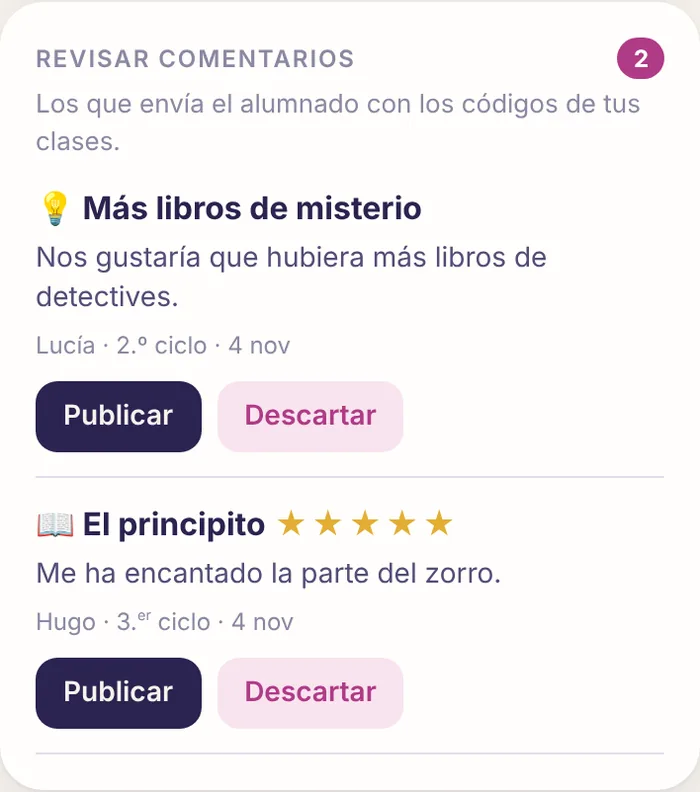
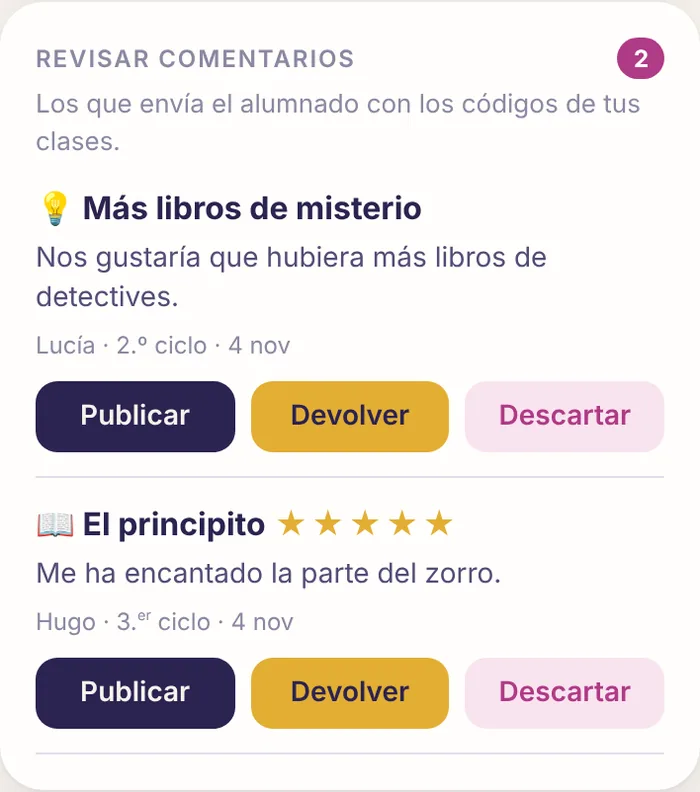
Devolver mensajes al alumno para que los corrija (vinculado al dispositivo)
Claude-Session: https://claude.ai/code/session_01LUWp7JZmstWodScyruJUGT

Changed region(s): [[0.09, 0.8182, 0.96, 0.9394], [0.09, 0.4545, 0.96, 0.5758]]

diff --git a/index.html b/index.html
@@ -247,6 +247,14 @@ sup{font-size:.6em;line-height:0;vertical-align:.6em;margin-left:.02em}
 .conf-botones{display:grid;grid-template-columns:1fr 1fr;gap:10px;margin-top:20px}
 .conf-botones .btn{margin:0;padding:15px 10px}
 .btn.rojo{background:var(--teja);color:#fff}
+.revisar.devuelto{background:var(--oro);color:var(--tinta)}
+.nota-maestro{background:#FBF3DC;border:1px solid #F0DDA4;border-radius:14px;padding:12px 14px;margin:10px 0 4px}
+.nota-maestro span{display:block;font-size:13px;color:var(--tinta2)}
+.nota-maestro b{display:block;margin-top:2px;font-size:16px}
+.corregido{margin-top:8px;font-size:13px;background:#E8F1FB;color:#24508A;border-radius:10px;padding:6px 10px}
+.tres-botones{display:grid;grid-template-columns:repeat(3,1fr);gap:8px;margin-top:10px}
+.btn-peq.oro{background:var(--oro);color:var(--tinta)}
+.pill.devuelto-p{background:#FBF3DC;color:#9A6B00}
 .cargando{text-align:center;color:var(--suave);padding:60px 0}
 </style>
 </head>
@@ -273,7 +281,7 @@ sup{font-size:.6em;line-height:0;vertical-align:.6em;margin-left:.02em}
 /* ============ CONFIGURACIÓN ============ */
 const API = 'https://script.google.com/macros/s/AKfycbz81OyJGv_nYIVvf2obFFmcTHuE472UoAX05WH8zrBownnmmddSbHULyt2vV2fO0F4u/exec';
 const NOMBRE_CENTRO = 'CEIP Fernando IV';
-const VERSION_APP = '1.27';
+const VERSION_APP = '1.28';
 
 const MESES = ['enero','febrero','marzo','abril','mayo','junio','julio','agosto','septiembre','octubre','noviembre','diciembre'];
 const DIAS = ['domingo','lunes','martes','miércoles','jueves','viernes','sábado'];
@@ -293,7 +301,8 @@ const S = {
   sesion: leer('bib_sesion'),
   demo: !!leer('bib_demo'),
   ejemplo: !!leer('bib_ejemplo'),
-  demoMsgs: leer('bib_demoMsgs') || [],   // maestro: {token, maestro:{id,nombre,rol}}
+  demoMsgs: leer('bib_demoMsgs') || [],
+  devueltos: [],   // maestro: {token, maestro:{id,nombre,rol}}
   alumno: leer('bib_alumno')    // alumno: {codigoClase, alias}
 };
 
@@ -457,9 +466,22 @@ async function cargarCalendario(){
 async function cargarPublicas(){ S.publicas = await api('publicas'); guardarCache(); }
 async function cargarPendientes(){ if (esMaestro()) S.pendientes = await api('pendientes', { token: S.sesion.token }, true).catch(() => null); }
 
+/** Identificador anónimo de este dispositivo: sirve para devolver al alumno sus propios mensajes. */
+function idDispositivo(){
+  let id = leer('bib_dispositivo');
+  if (!id) { id = (crypto.randomUUID ? crypto.randomUUID() : Date.now().toString(36) + Math.random().toString(36).slice(2)); guardar('bib_dispositivo', id); }
+  return id;
+}
+async function cargarDevueltos(){
+  if (S.demo) { S.devueltos = S.demoMsgs.filter(x => x.estado === 'devuelta'); return; }
+  if (esMaestro() || !S.alumno) { S.devueltos = []; return; }
+  try { S.devueltos = (await api('misDevueltos', { dispositivo: idDispositivo(), alias: S.alumno.alias })).devueltos || []; }
+  catch(e){ S.devueltos = S.devueltos || []; }
+}
+
 async function refrescar(){
   try {
-    await Promise.all([cargarEstado(), cargarPublicas(), cargarPendientes(), cargarCalendario()]);
+    await Promise.all([cargarEstado(), cargarPublicas(), cargarPendientes(), cargarCalendario(), cargarDevueltos()]);
     if (S.mesVista && S.mesVista !== S.estado.mes) await cargarEstado(S.mesVista);
     guardarCache();
     pintar();
@@ -695,7 +717,12 @@ function vInicioAlumno(){
   const mesNombre = MESES[+S.estado.ahora.fecha.slice(5, 7) - 1];
   const res = pub().resenas.length, sug = pub().sugerencias.length;
 
-  return cabecera() + `
+  const nDev = (S.devueltos || []).length;
+  const avisoDev = nDev ? `<button class="card revisar devuelto" onclick="verDevueltos()">
+      <span class="icono" style="background:rgba(255,255,255,.25)">✏</span>
+      <span style="flex:1;text-align:left"><b>${nDev === 1 ? 'Te han devuelto 1 mensaje' : `Te han devuelto ${nDev} mensajes`}</b>
+      <span style="display:block;font-size:13px;opacity:.9">${nDev === 1 ? 'Corrígelo y vuelve a enviarlo' : 'Corrígelos y vuelve a enviarlos'}</span></span><span class="ir" style="color:var(--tinta)">›</span></button>` : '';
+  return cabecera() + avisoDev + `
   <div class="card hero hero-alumno">
     <div class="etq">Biblioteca del cole</div>
     <div class="estado">${nombre ? '¡Hola, ' + esc(nombre) + '!' : '¡Hola!'}</div>
@@ -912,7 +939,12 @@ function nuevoMensaje(){
     return;
   }
   const res = S.buzonTab === 'resenas';
-  abrirHoja(`<h2>${res ? 'Nueva reseña' : 'Nueva sugerencia'}</h2>
+  formMensaje(res, null);
+}
+/** Formulario para escribir o, si viene «dev», para corregir un mensaje devuelto. */
+function formMensaje(res, dev){
+  abrirHoja(`<h2>${dev ? (res ? 'Corrige tu reseña' : 'Corrige tu sugerencia') : res ? 'Nueva reseña' : 'Nueva sugerencia'}</h2>
+    ${dev ? `<div class="nota-maestro"><span>✏ ${esc(dev.moderadaPor || 'Tu maestro/a')} te dice:</span><b>${esc(dev.nota)}</b></div>` : ''}
     ${res ? `<label>Título del libro</label><input id="fLibro" maxlength="100">
       <label>Autor o autora</label><input id="fAutor" maxlength="80" placeholder="Si no lo sabes, déjalo en blanco">
       <label>¿Cuánto te ha gustado?</label><div class="selector-estrellas" id="fEst">${[1,2,3,4,5].map(n => `<button data-n="${n}" onclick="ponerEstrellas(${n})">★</button>`).join('')}</div>
@@ -920,13 +952,26 @@ function nuevoMensaje(){
     : `<label>Título</label><input id="fTitulo" maxlength="80" placeholder="Por ejemplo: más libros de dinosaurios">
       <label>Tu sugerencia</label><textarea id="fTexto" maxlength="1000"></textarea>`}
     ${!esMaestro() ? '<p class="ayuda">Un maestro o maestra lo revisará antes de publicarlo.</p>' : ''}
-    <button class="btn" id="fEnviar" onclick="enviarMensaje(${res})">Enviar</button>`);
+    <button class="btn" id="fEnviar" onclick="enviarMensaje(${res}${dev ? `,'${dev.id}'` : ''})">${dev ? 'Volver a enviar' : 'Enviar'}</button>`);
   ponerEstrellas.n = 0;
+  if (dev) {
+    if (res) { $('#fLibro').value = dev.libro || ''; $('#fAutor').value = dev.autorLibro && dev.autorLibro !== '-' ? dev.autorLibro : ''; ponerEstrellas(+dev.valoracion || 0); }
+    else $('#fTitulo').value = dev.titulo || '';
+    $('#fTexto').value = dev.texto || '';
+  }
+}
+function corregir(i){ const d = S.devueltos[i]; if (d) formMensaje(d._t === 'resena', d); }
+function verDevueltos(){
+  if (S.devueltos.length === 1) return corregir(0);
+  abrirHoja(`<h2>Mensajes para corregir</h2><p class="ayuda">Tu maestro o maestra te ha devuelto estos mensajes. Corrígelos y vuelve a enviarlos.</p>
+    ${S.devueltos.map((d, i) => `<button class="card item" style="margin-top:12px" onclick="corregir(${i})"><h3>${esc(d._t === 'resena' ? '📖 ' + d.libro : '💡 ' + d.titulo)}</h3>
+      <p>✏ ${esc(d.nota)}</p></button>`).join('')}`);
 }
 function ponerEstrellas(n){ ponerEstrellas.n = n; document.querySelectorAll('#fEst button').forEach(b => b.classList.toggle('on', +b.dataset.n <= n)); }
 
-async function enviarMensaje(res){
-  const quien = esMaestro() ? { token: S.sesion.token } : { codigoClase: alumno().codigoClase, alias: alumno().alias };
+async function enviarMensaje(res, reenviarId){
+  const quien = esMaestro() ? { token: S.sesion.token } : { codigoClase: alumno().codigoClase, alias: alumno().alias, dispositivo: idDispositivo() };
+  if (reenviarId) quien.reenviarId = reenviarId;
   const datos = res
     ? { libro: $('#fLibro').value, autorLibro: $('#fAutor').value.trim() || '-', valoracion: ponerEstrellas.n, texto: $('#fTexto').value }
     : { titulo: $('#fTitulo').value, texto: $('#fTexto').value };
@@ -934,8 +979,11 @@ async function enviarMensaje(res){
   if (S.demo) {
     const falta = res ? (!datos.libro.trim() ? 'título del libro' : !datos.texto.trim() ? 'reseña' : '') : (!datos.titulo.trim() ? 'título' : !datos.texto.trim() ? 'texto' : '');
     if (falta) { aviso('Falta el campo «' + falta + '».', true); return; }
-    S.demoMsgs.unshift(Object.assign({ _t: res ? 'resena' : 'sugerencia', id: 'DEMO' + Date.now(), demo: true, estado: 'pendiente', tipoAutor: 'alumno',
+    const previo = reenviarId && S.demoMsgs.find(x => x.id === reenviarId);
+    if (previo) Object.assign(previo, datos, { estado: 'pendiente', revisiones: (previo.revisiones || 0) + 1 });
+    else S.demoMsgs.unshift(Object.assign({ _t: res ? 'resena' : 'sugerencia', id: 'DEMO' + Date.now(), demo: true, estado: 'pendiente', tipoAutor: 'alumno',
       alias: ALUMNO_DEMO.alias, clase: ALUMNO_DEMO.clase, creada: S.estado.ahora.fecha + ' ' + S.estado.ahora.hora }, datos));
+    await cargarDevueltos();
     guardar('bib_demoMsgs', S.demoMsgs); cerrarHoja();
     aviso('¡Enviado! Se publicará cuando lo revisen ✓'); pintar(); return;
   }
@@ -943,9 +991,9 @@ async function enviarMensaje(res){
   try {
     const j = await api(res ? 'enviarResena' : 'enviarSugerencia', Object.assign(quien, datos), true);
     cerrarHoja();
-    aviso(j.estado === 'aprobada' ? 'Publicado ✓' : '¡Enviado! Se publicará cuando lo revisen ✓');
-    await cargarPublicas(); pintar();
-  } catch(e){ aviso(e.message, true); b.disabled = false; b.textContent = 'Enviar'; }
+    aviso(j.estado === 'aprobada' ? 'Publicado ✓' : reenviarId ? '¡Corregido y enviado! ✓' : '¡Enviado! Se publicará cuando lo revisen ✓');
+    await Promise.all([cargarPublicas(), cargarDevueltos()]); pintar();
+  } catch(e){ aviso(e.message, true); b.disabled = false; b.textContent = reenviarId ? 'Volver a enviar' : 'Enviar'; if (/ya no se puede corregir/.test(e.message)) { await cargarDevueltos(); pintar(); } }
 }
 
 /* ============ PERFIL ============ */
@@ -990,8 +1038,9 @@ function guardarAlumno(){
   const codigoClase = $('#aCod').value.trim().toUpperCase(), alias = $('#aAlias').value.trim();
   if (!codigoClase || !alias) { aviso('Rellena los dos campos', true); return; }
   S.alumno = { codigoClase, alias }; guardar('bib_alumno', S.alumno); cerrarHoja(); pintar(); aviso('¡Hola, ' + alias + '!');
+  cargarDevueltos().then(pintar);
 }
-function salirAlumno(){ S.alumno = null; guardar('bib_alumno', null); pintar(); }
+function salirAlumno(){ S.devueltos = []; S.alumno = null; guardar('bib_alumno', null); pintar(); }
 
 function formMaestro(modo){
   const reg = modo === 'registro';
@@ -1033,8 +1082,10 @@ function perfilMaestro(){
           <b>${esc(x._t === 'resena' ? '📖 ' + x.libro : '💡 ' + x.titulo)}</b>${x._t === 'resena' ? ` <span class="estrellas">${estrellas(+x.valoracion)}</span>` : ''}
           <p style="font-size:14px;color:var(--tinta2);margin-top:4px;white-space:pre-wrap">${esc(x.texto)}</p>
           <div class="meta" style="margin-top:4px">${esc(x.alias)} · ${cl(x.clase)} · ${fechaCorta(x.creada)}${x.demo ? ' · <span class="tag-demo">ejemplo</span>' : p.todas && !x.mia ? ' · <b>de otra clase</b>' : ''}</div>
-          <div style="display:flex;gap:8px;margin-top:10px">
+          ${+x.revisiones ? `<div class="corregido">🔁 Corregido por el alumno${+x.revisiones > 1 ? ` (${x.revisiones}.ª vez)` : ''}. Le pediste: «${esc(x.nota)}»</div>` : ''}
+          <div class="tres-botones">
             <button class="btn-peq" onclick="moderar('${x._t}','${x.id}','aprobada')">Publicar</button>
+            <button class="btn-peq oro" onclick="formDevolver('${x._t}','${x.id}')">Devolver</button>
             <button class="btn-peq peligro" onclick="moderar('${x._t}','${x.id}','rechazada')">Descartar</button></div></div>`).join('')
         : '<p class="ayuda">No hay nada pendiente.</p>'}
     </div>
@@ -1054,7 +1105,7 @@ function perfilMaestro(){
 function verAlumno(codigo, i){
   const c = (S.clases || []).concat(S.clasesAntiguas || []).find(x => x.codigo === codigo || x.nombre === codigo); if (!c) return;
   const a = c.participantes[i];
-  const est = { aprobada: ['Publicado', 'libre'], pendiente: ['Pendiente', 'neutra-c'], rechazada: ['Descartado', 'ocupada'] };
+  const est = { aprobada: ['Publicado', 'libre'], pendiente: ['Pendiente', 'neutra-c'], rechazada: ['Descartado', 'ocupada'], devuelta: ['Devuelto', 'devuelto-p'] };
   const items = a.mensajes || [];
   abrirHoja(`<h2>${esc(a.alias)}</h2>
     <p class="ayuda">${cl(c.nombre)} · ${a.envios === 1 ? '1 mensaje' : a.envios + ' mensajes'} · último el ${fechaCorta(a.ultimo)}</p>
@@ -1069,7 +1120,8 @@ function verAlumno(codigo, i){
 }
 
 function entrarDemo(){
-  S.demo = true; guardar('bib_demo', true); S.vista = 'inicio'; window.scrollTo(0, 0); pintar();
+  S.demo = true; guardar('bib_demo', true); S.vista = 'inicio'; window.scrollTo(0, 0);
+  S.devueltos = S.demoMsgs.filter(x => x.estado === 'devuelta'); pintar();
   aviso('Estás viendo la app como un alumno');
 }
 function salirDemo(){
@@ -1107,7 +1159,8 @@ function vGuia(){
     ${paso(6, 'Elegir tus clases y dar el código', `<p>En <b>Perfil → Mis clases</b>, toca las clases en las que das clase (Infantil, 1.<sup>er</sup> ciclo, 2.º ciclo, 3.<sup>er</sup> ciclo, ESO, Aula específica). Quedan marcadas con ✓.</p>
       <ul><li>Aparecerán como botones al <b>reservar</b> y recibirás para revisar lo que escriba su alumnado.</li><li>Cada clase tiene <b>un código</b> para todo su alumnado. Dalo <b>en clase</b> (en la pizarra, por ejemplo).</li><li>Cada niño entra en <b>Perfil → Alumno/a</b> con ese código y su nombre e inicial, <b>sin apellidos</b> (p. ej. «Lucía M.»).</li><li>Debajo de cada clase verás <b>qué alumnos han participado</b>. <b>Toca un nombre</b> para leer lo que ha escrito.</li><li>El número de alumnos se corrige tocando <b>«✏»</b>; el ranking lo usa para comparar clases.</li><li>Si el código se difunde fuera de clase, pulsa <b>Cambiar código</b>: el anterior deja de funcionar.</li></ul>`, 'clases')}
     ${paso(7, 'Revisar comentarios del alumnado', `<p>Lo que escribe el alumnado <b>no se publica hasta que lo revisas</b>. Cuando haya algo pendiente de tus clases, verás un aviso magenta arriba del todo en <b>Inicio</b>.</p>
-      <p>Púlsalo y elige <b>Publicar</b> o <b>Descartar</b>. Solo ves lo que llega con los códigos de tus clases.</p>
+      <p>Púlsalo y elige <b>Publicar</b>, <b>Devolver</b> o <b>Descartar</b>. Solo ves lo que llega con los códigos de tus clases.</p>
+      <p>Si tiene faltas o está incompleto, pulsa <b>Devolver</b>: elige una frase («Revisa la ortografía y vuelve a enviarlo», «Revisa las tildes»…) o escribe la tuya. El alumno lo verá en su app, lo corregirá y te volverá a llegar marcado como <b>«🔁 Corregido»</b>.</p>
       <p>Si algo ya publicado no debería estar, ábrelo en el <b>Buzón</b> y pulsa <b>Retirar publicación</b>.</p>`, 'revisar')}
     ${paso(8, 'Lo que ve tu alumnado', `<p>El alumnado tiene una app más sencilla, <b>sin la pestaña de reservas</b>. En su Inicio ve:</p>
       <ul><li>Un saludo con su nombre y las <b>efemérides próximas</b>.</li><li>El <b>libro del mes</b>: el que más reseñas ha recibido y, si hay empate, el mejor valorado.</li><li>El <b>ranking de clases más lectoras</b>: gana la clase con más reseñas y sugerencias <b>publicadas por alumno</b>, así las clases pequeñas compiten igual. Se reinicia cada mes. Debajo del ranking, <b>«¿Cómo se calcula?»</b> lo explica con un ejemplo de castañas.</li></ul>
@@ -1249,15 +1302,36 @@ async function retirarPublicacion(tipo, id){
     await cargarPublicas(); pintar(); }
   catch(e){ aviso(/desconocida/.test(e.message) ? 'Falta actualizar el servidor' : e.message, true); }
 }
-async function moderar(tipo, id, decision){
+const FRASES_DEVOLVER = [
+  'Revisa la ortografía y vuelve a enviarlo.',
+  'Revisa las mayúsculas y los puntos.',
+  'Revisa las tildes.',
+  'Cuéntanos un poco más.',
+  'Escríbelo con tus propias palabras.'
+];
+function formDevolver(tipo, id){
+  abrirHoja(`<h2>Devolver al alumno</h2>
+    <p class="ayuda">El alumno verá este mensaje en su app, podrá corregirlo y volver a enviarlo.</p>
+    <div class="chips" style="margin-top:12px">${FRASES_DEVOLVER.map(f => `<button class="chip" onclick="$('#dNota').value=this.textContent;document.querySelectorAll('#hoja .chips .chip').forEach(c=>c.classList.toggle('on',c===this))">${f}</button>`).join('')}</div>
+    <label>Mensaje para el alumno</label><textarea id="dNota" maxlength="200" style="min-height:80px">${FRASES_DEVOLVER[0]}</textarea>
+    <button class="btn" id="dBtn" onclick="devolver('${tipo}','${id}')">Devolver</button>`);
+}
+async function devolver(tipo, id){
+  const nota = $('#dNota').value.trim(); if (!nota) { aviso('Escribe qué tiene que revisar', true); return; }
+  $('#dBtn').disabled = true;
+  await moderar(tipo, id, 'devuelta', nota); cerrarHoja();
+}
+
+async function moderar(tipo, id, decision, nota){
+  const textos = { aprobada: 'Publicado ✓', rechazada: 'Descartado', devuelta: 'Devuelto al alumno ✓' };
   if (String(id).startsWith('DEMO')) {
-    const m = S.demoMsgs.find(x => x.id === id); if (m) m.estado = decision;
-    guardar('bib_demoMsgs', S.demoMsgs); aviso(decision === 'aprobada' ? 'Publicado ✓' : 'Descartado'); pintar(); return;
+    const m = S.demoMsgs.find(x => x.id === id); if (m) { m.estado = decision; if (nota) { m.nota = nota; m.moderadaPor = S.sesion.maestro.nombre; } }
+    guardar('bib_demoMsgs', S.demoMsgs); aviso(textos[decision]); pintar(); return;
   }
   try {
-    await api('moderar', { token: S.sesion.token, tipo, id, decision }, true);
-    aviso(decision === 'aprobada' ? 'Publicado ✓' : 'Descartado');
-  } catch(e){ aviso(e.message, true); }
+    await api('moderar', { token: S.sesion.token, tipo, id, decision, nota }, true);
+    aviso(textos[decision]);
+  } catch(e){ aviso(/Decisión no válida/.test(e.message) ? 'Falta actualizar el servidor' : e.message, true); }
   await Promise.all([cargarPendientes(), cargarPublicas()]); pintar();
 }
 

diff --git a/sw.js b/sw.js
@@ -1,5 +1,5 @@
 // Service worker de la Biblioteca. Sube VERSION en cada actualización.
-const VERSION = 'biblioteca-v27';
+const VERSION = 'biblioteca-v28';
 const BASICOS = ['./', './index.html', './manifest.webmanifest', './img/biblioteca.webp', './img/icono-192.png', './img/icono-512.png', './img/escudo-180.webp'];
 
 self.addEventListener('install', e => {
